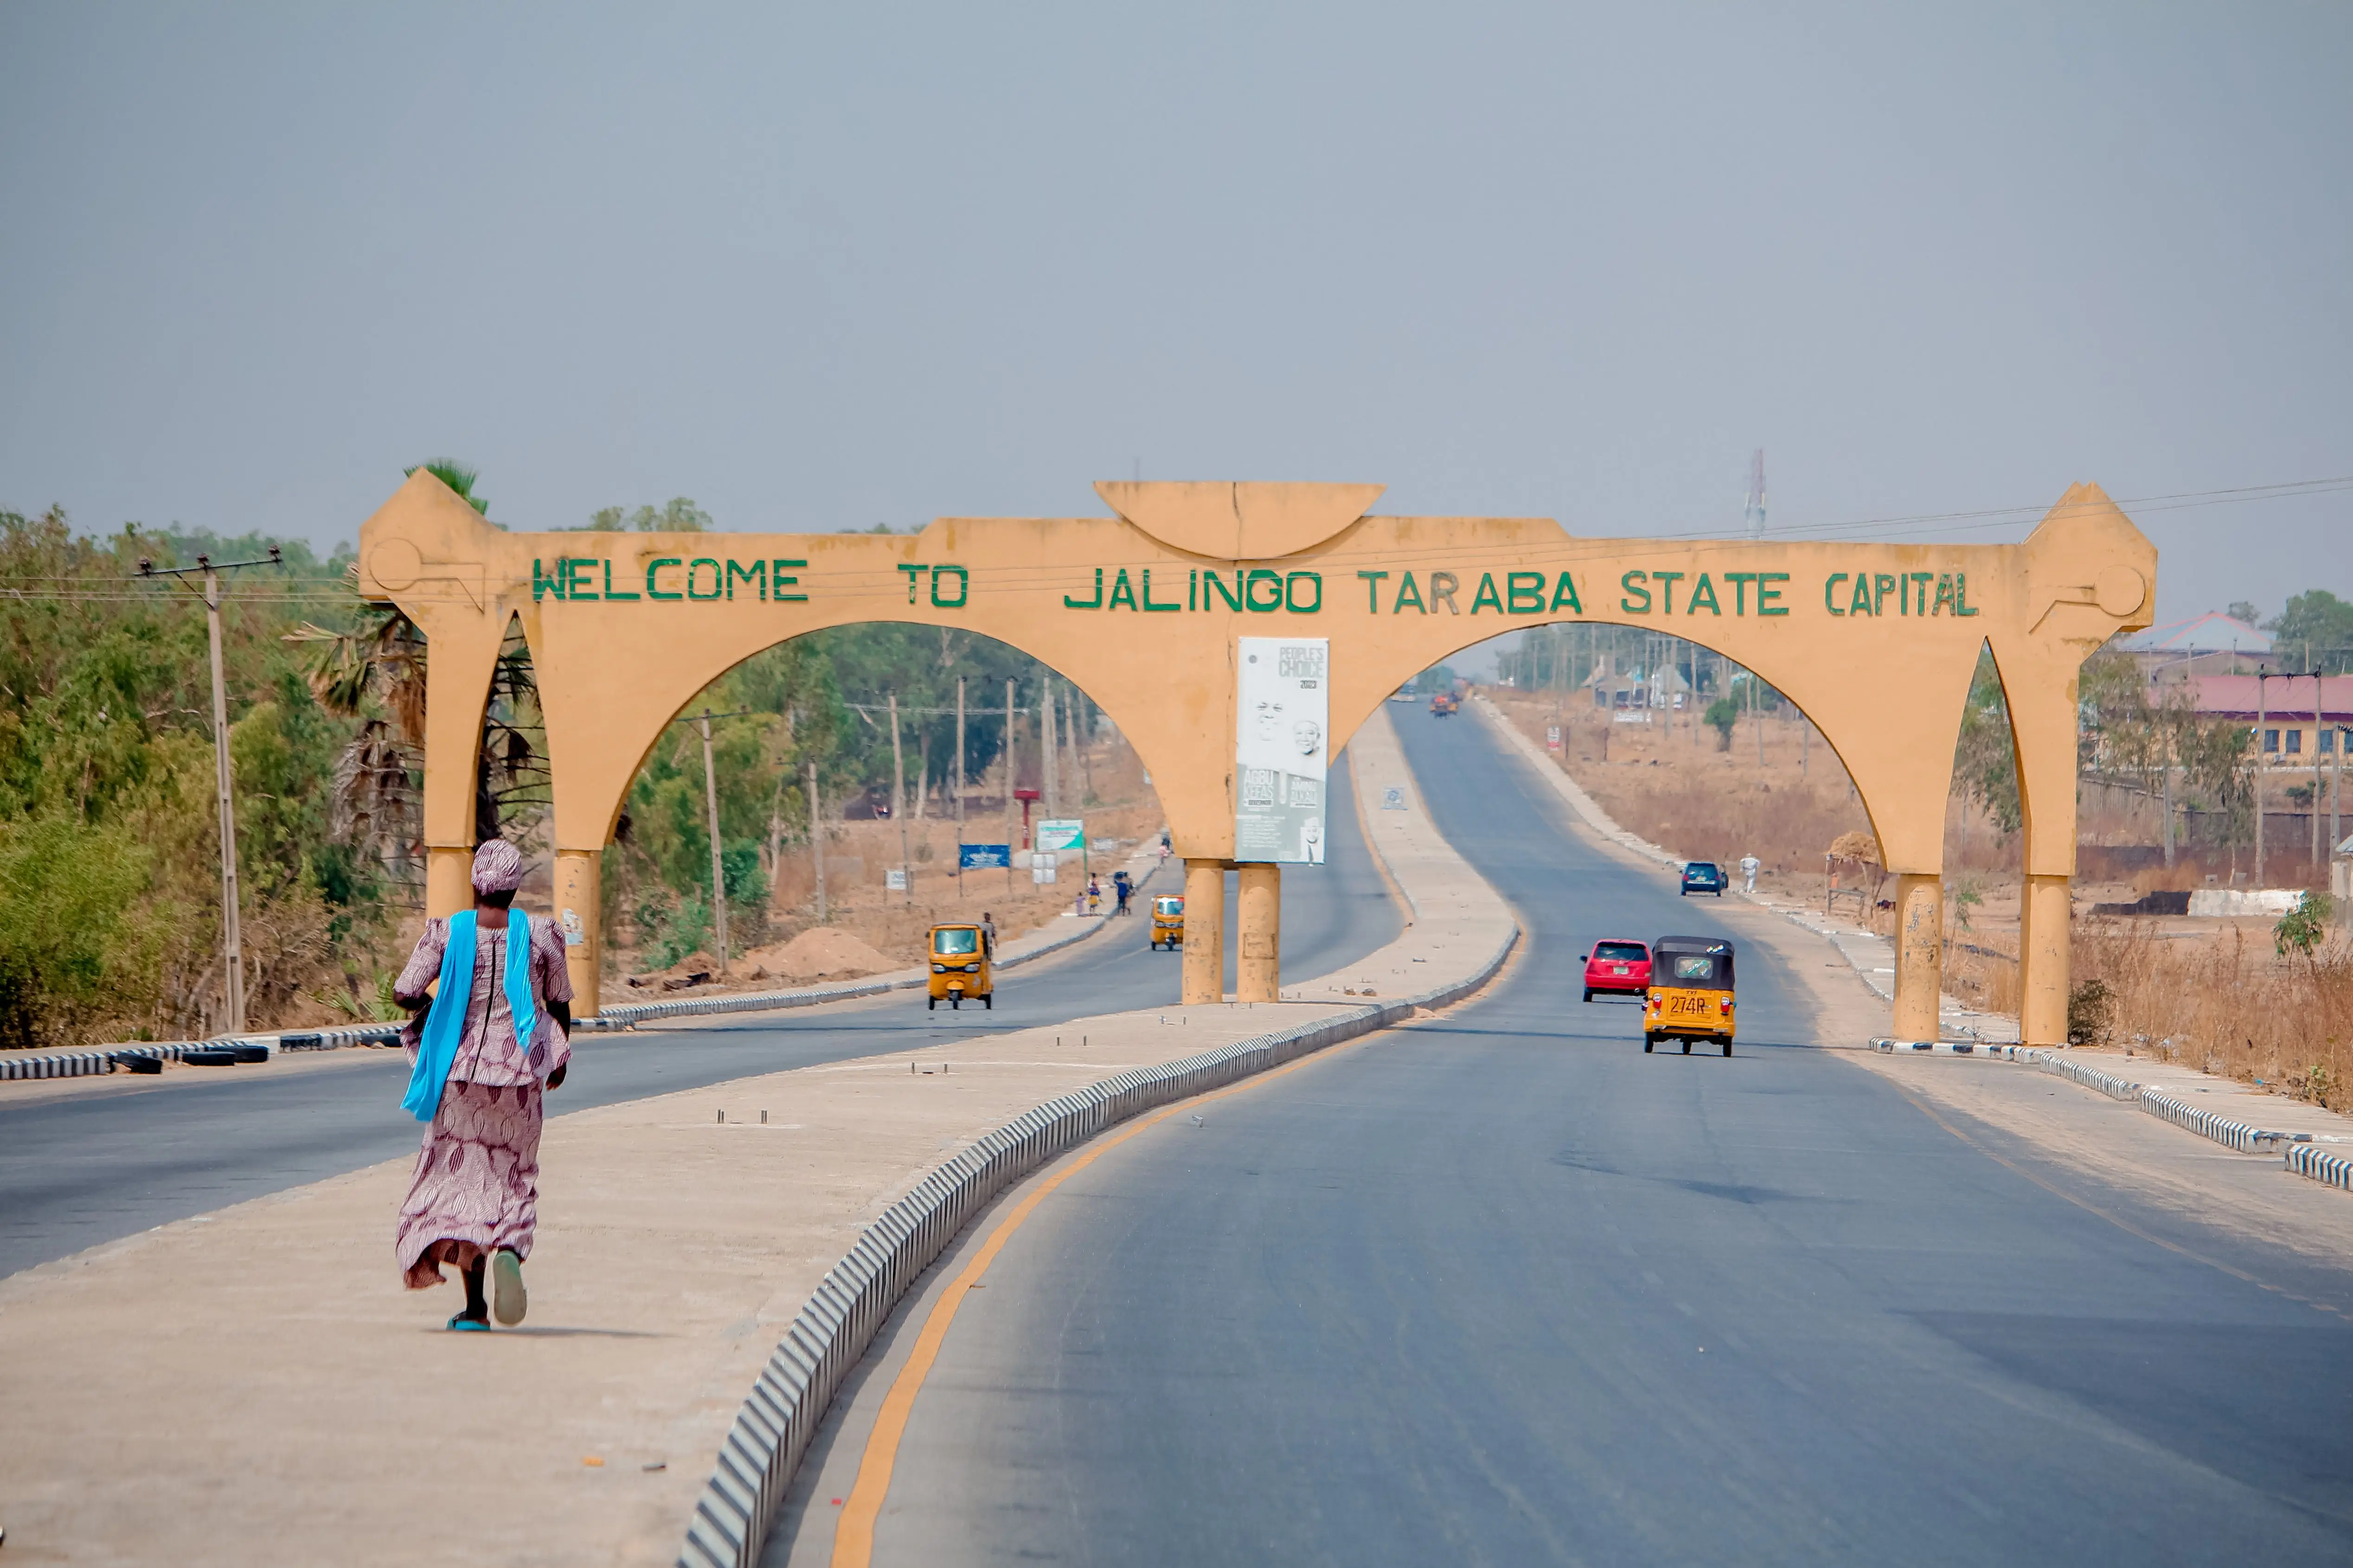
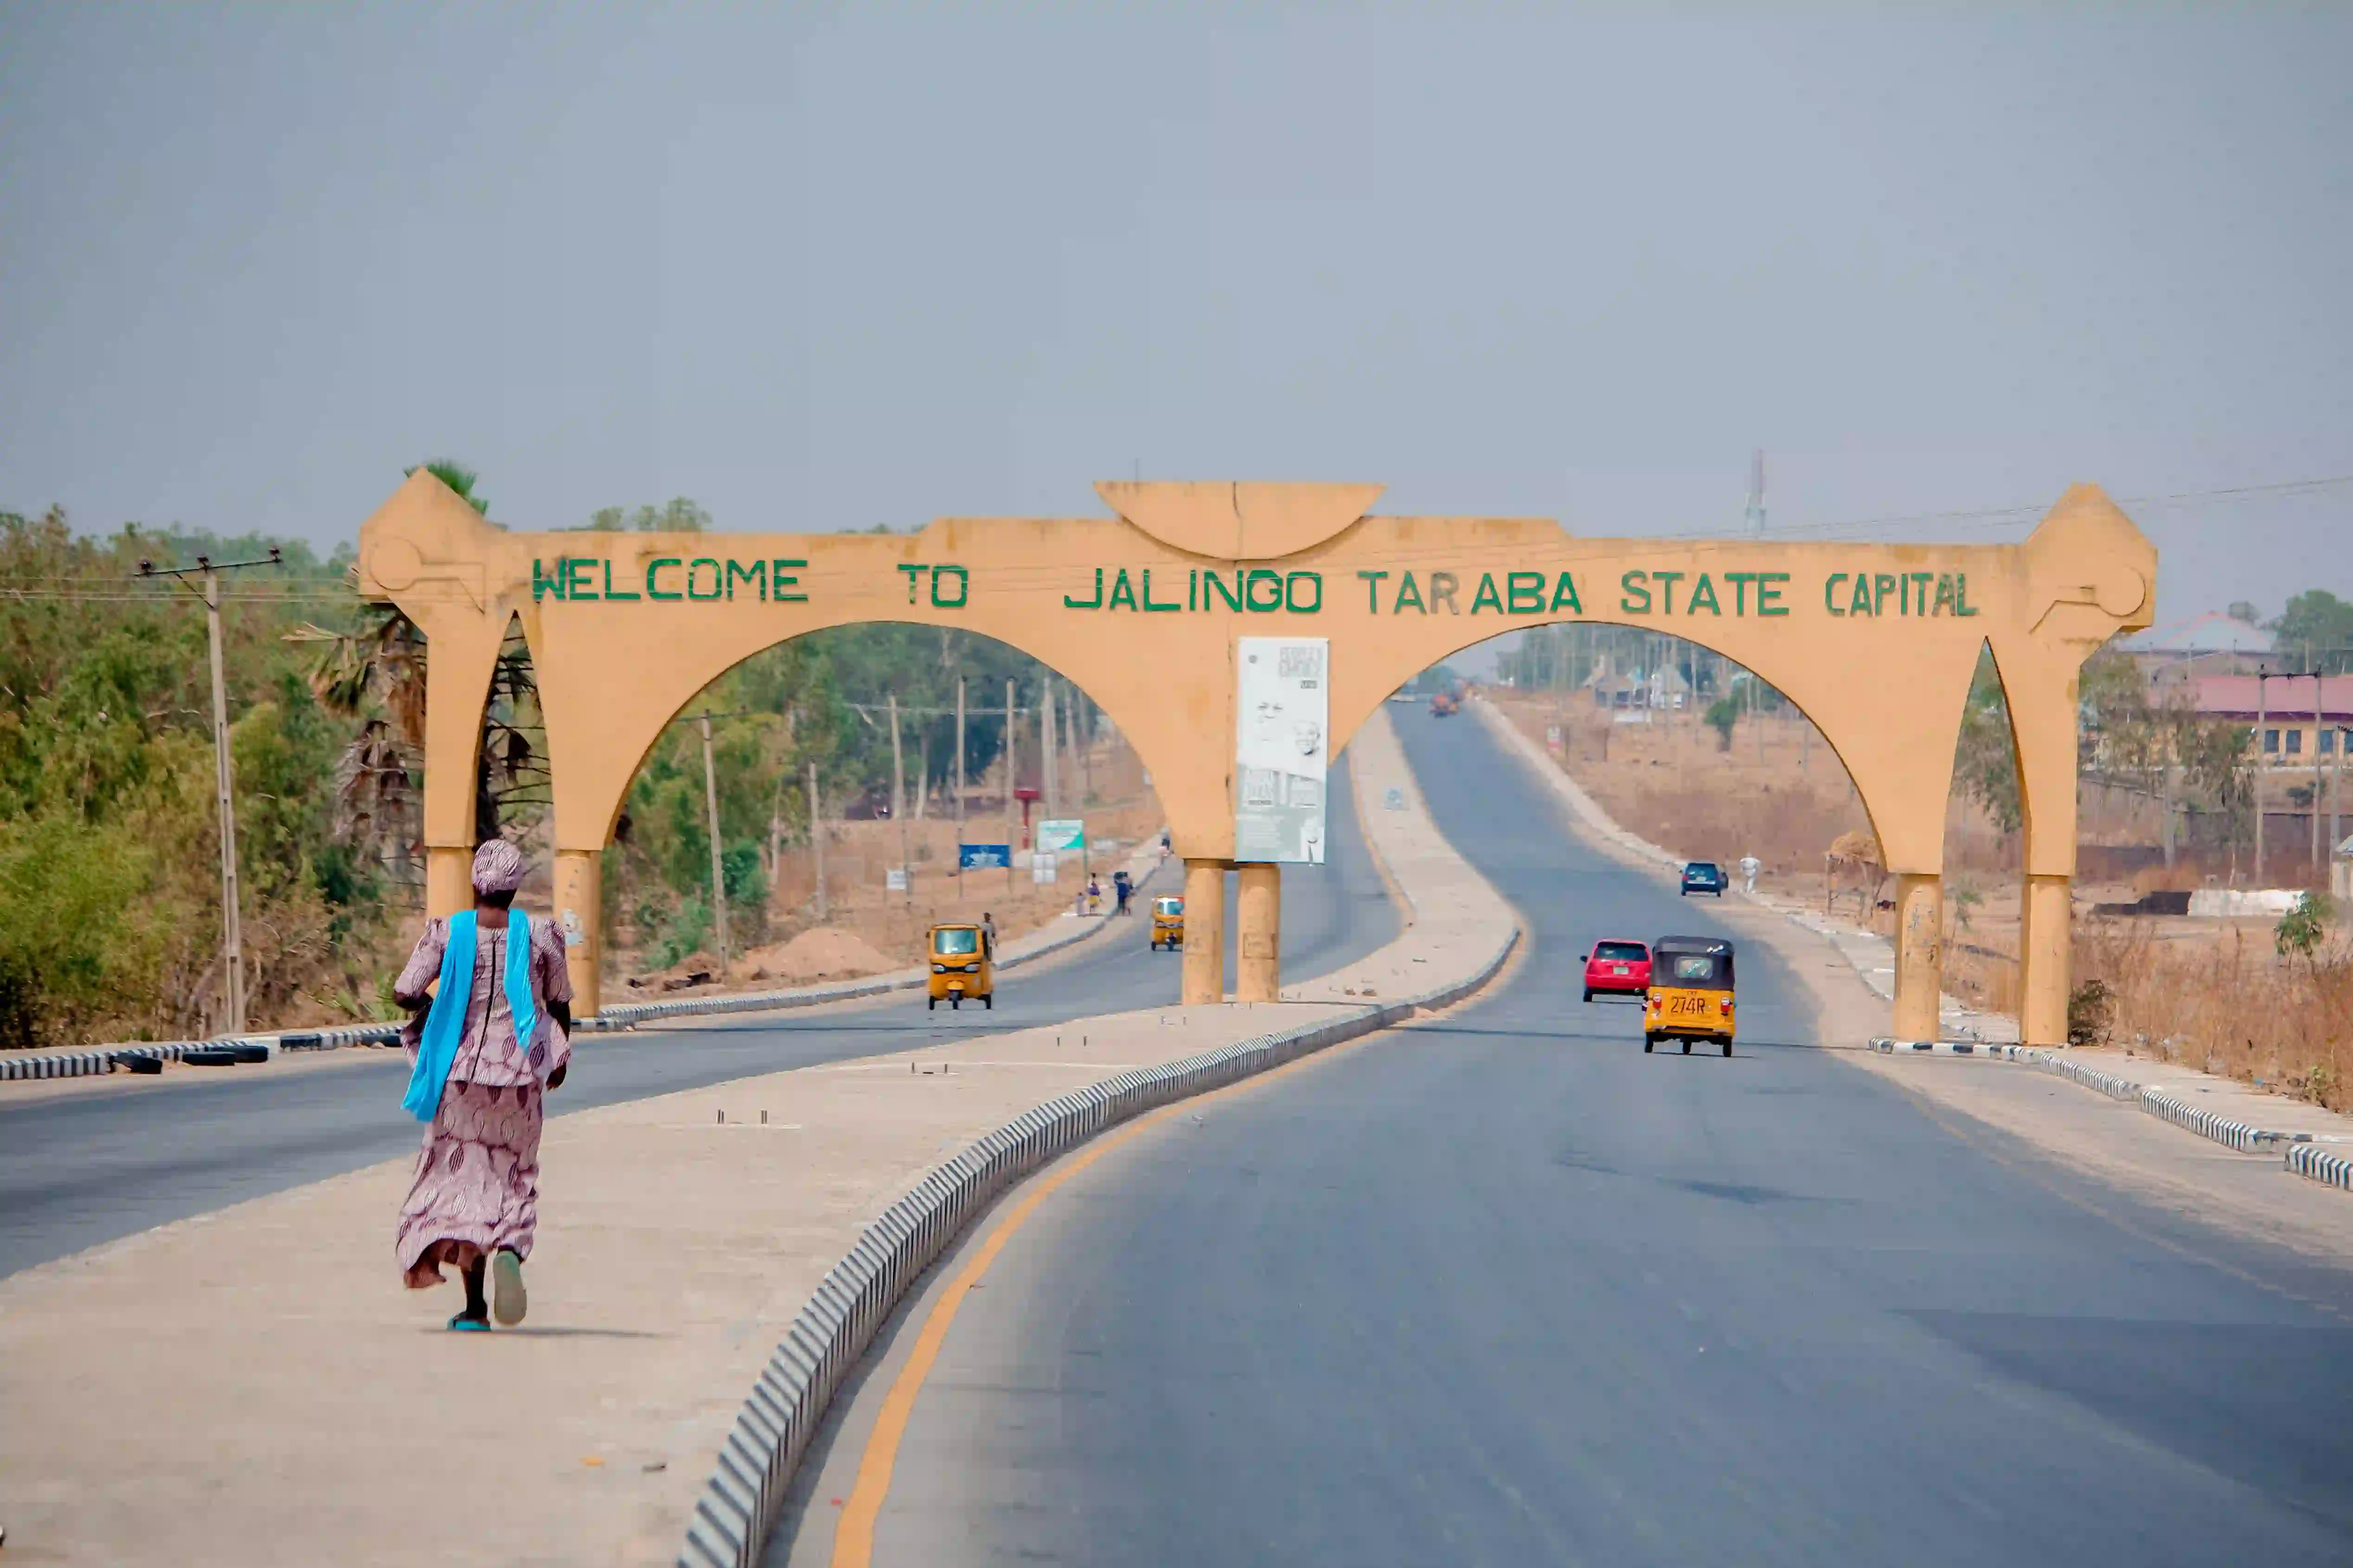
Fix W03 audit issues

diff --git a/styles/place.css b/styles/place.css
@@ -1,5 +1,4 @@
 
-
 :root {
   /* Colors inspired by the landscape of Taraba */
   --forest: #24402b;
@@ -229,5 +228,157 @@ a {
    ========================================================================== */
 
 .weather {
-  padding: 2.5rem
+  padding: 2.5rem 0;
+  background-color: var(--river);
+  color: var(--paper);
+}
+
+.weather-inner {
+  display: flex;
+  align-items: center;
+  justify-content: space-between;
+  gap: 2rem;
+}
+
+.weather h2 {
+  display: flex;
+  align-items: center;
+  gap: 0.6rem;
+  color: var(--paper);
+}
+
+.weather-location {
+  margin-top: -0.5rem;
+  color: var(--parchment);
+  font-style: italic;
+}
+
+/* Wide-screen weather icon */
+.weather-icon::after {
+  content: "⛅";
+  font-size: 1.6rem;
+}
+
+.weather-stats {
+  display: flex;
+  gap: 2rem;
+  margin: 1rem 0 0;
+}
+
+.weather-stats dt {
+  color: var(--parchment);
+  font-size: 0.8rem;
+  letter-spacing: 0.04em;
+  text-transform: uppercase;
+}
+
+.weather-stats dd {
+  margin: 0.15rem 0 0;
+  font-family: var(--font-display);
+  font-size: 1.5rem;
+  font-weight: 600;
+}
+
+/* SVG weather icon for smaller screens */
+.weather-icon-mobile {
+  display: none;
+  width: 64px;
+  height: 64px;
+}
+
+
+/* ==========================================================================
+   FOOTER
+   ========================================================================== */
+
+.site-footer {
+  padding: 1.5rem 0;
+  background-color: var(--forest-dark);
+  color: var(--parchment);
+  font-size: 0.85rem;
+}
+
+.site-footer p {
+  margin: 0.2rem 0;
+}
+
+
+/* ==========================================================================
+   RESPONSIVE DESIGN
+   ========================================================================== */
+
+/* Mobile */
+@media (max-width: 599px) {
+  .header-inner {
+    flex-direction: column;
+    align-items: flex-start;
+    gap: 0.75rem;
+  }
+
+  .site-nav {
+    flex-wrap: wrap;
+    gap: 0.75rem 1rem;
+  }
+
+  .site-nav a {
+    font-size: 0.9rem;
+  }
+
+  .hero-img {
+    height: 50vh;
+    min-height: 280px;
+  }
+
+  .hero-copy h1 {
+    font-size: 1.9rem;
+  }
+
+  .tagline {
+    font-size: 1rem;
+  }
+
+  .weather-inner {
+    flex-direction: column;
+    align-items: flex-start;
+  }
+
+  /* Hide the wide-screen pseudo-element on mobile */
+  .weather-icon::after {
+    display: none;
+  }
+
+  /* Show the required SVG on mobile */
+  .weather-icon-mobile {
+    display: block;
+  }
+
+  .weather-stats {
+    gap: 1.25rem;
+    flex-wrap: wrap;
+  }
+}
+
+
+/* Wider screens */
+@media (min-width: 700px) {
+  .cards {
+    grid-template-columns: repeat(3, 1fr);
+  }
+}
+
+
+/* Large screens */
+@media (min-width: 900px) {
+  .hero-copy h1 {
+    font-size: 3.2rem;
+  }
+
+  .about {
+    padding-top: 4rem;
+    padding-bottom: 4rem;
+  }
+
+  .see {
+    padding-bottom: 4rem;
+  }
 }

diff --git a/place.html b/place.html
@@ -4,6 +4,7 @@
 <head>
   <meta charset="UTF-8">
   <meta name="viewport" content="width=device-width, initial-scale=1.0">
+  <meta name="author" content="Racheal Pelumi Nwachukwu">
 
   <title>Jalingo, Taraba | Nigeria</title>
 
